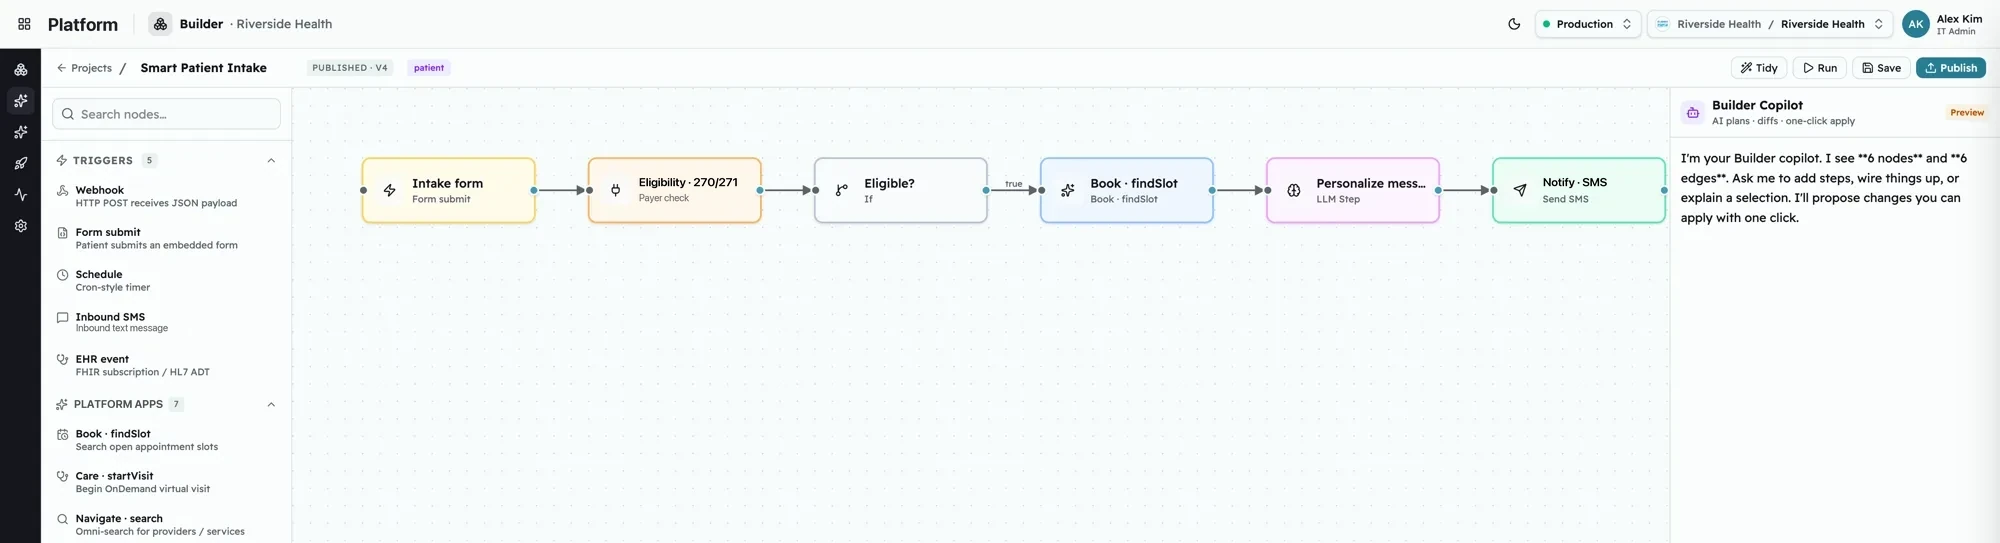
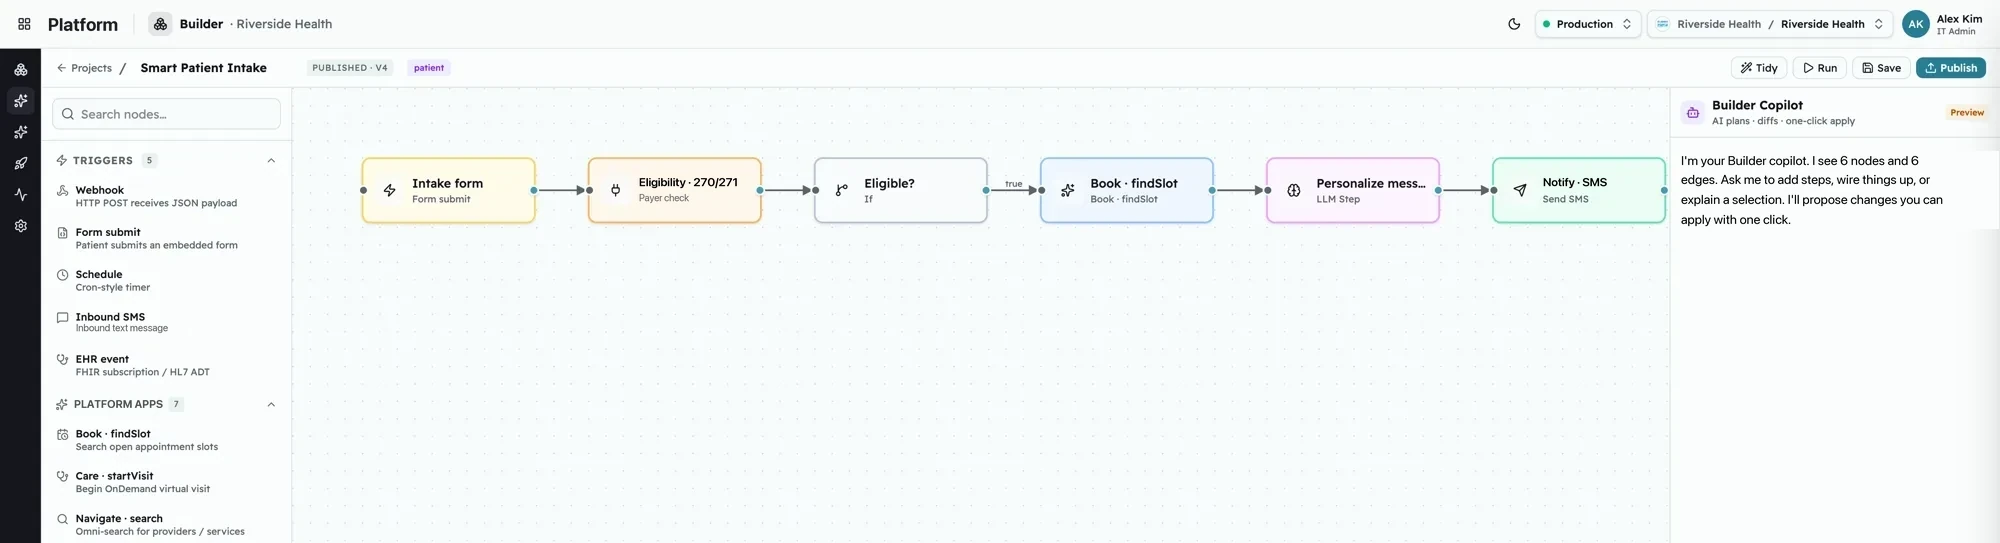
Critique fixes: executive tone, dials read today, screenshot cleanup
- Copy: drop commit leaderboards and defensive lines; trim endorsements
  to result clauses; plainer close
- Dials: needle shows today's reading, target drawn as a mark
- Text-wrap pretty, narrower long paragraphs, no double hairlines
- Crop internal heading from routing shot; clean copilot text
- Absolute og:image for LinkedIn previews

Changed region(s): [[0.837, 0.2652, 0.992, 0.4125]]

diff --git a/index.html b/index.html
@@ -7,12 +7,13 @@
 <meta name="description" content="Chris Carruthers: founder, and product and technology executive. I build companies, products and the teams behind them, most recently on the founding team of DexCare.">
 <meta property="og:title" content="Chris Carruthers">
 <meta property="og:description" content="Founder · Product & Technology Executive. I build companies, products and the teams behind them.">
-<meta property="og:image" content="assets/img/chris.jpg">
+<meta property="og:image" content="https://chris-carruthers.github.io/chris-carruthers-site/assets/img/chris.jpg">
+<meta property="og:url" content="https://chris-carruthers.github.io/chris-carruthers-site/">
 <meta name="theme-color" content="#2A3B26">
 <link rel="preconnect" href="https://fonts.googleapis.com">
 <link rel="preconnect" href="https://fonts.gstatic.com" crossorigin>
 <link href="https://fonts.googleapis.com/css2?family=Archivo:wdth,wght@62..125,300..800&family=Barlow+Semi+Condensed:wght@500;600&display=swap" rel="stylesheet">
-<link rel="stylesheet" href="styles.css?v=4">
+<link rel="stylesheet" href="styles.css?v=5">
 </head>
 <body>
 <a class="skip" href="#main">Skip to content</a>
@@ -48,7 +49,7 @@
         </div>
         <div>
           <dt>Technology</dt>
-          <dd><span class="fig">15</span> products set on one platform architecture, and I still ship code: top contributor to the AI product I lead.</dd>
+          <dd><span class="fig">15</span> products set on one platform architecture. Hands-on in the code of the AI product I lead.</dd>
         </div>
       </dl>
 
@@ -79,7 +80,7 @@
       <span class="exhibit" aria-hidden="true">A</span>
       <div>
         <h2 id="work-h">What we&rsquo;ve built</h2>
-        <p class="sub">Designed, built and shipped with the teams I lead, most of them in the last eight months.</p>
+        <p class="sub">Designed, built and shipped with the teams I lead.</p>
       </div>
     </header>
 
@@ -88,14 +89,14 @@
         <h3>DexCare.ai Optimize</h3>
         <p>The AI knowledge layer for patient access. It takes a health system's scheduling rules, scattered across Epic build, Visio diagrams and people's heads, and turns them into one governed source of truth that every channel shares: call center, web, text, voice and chat.</p>
         <ul class="facts">
-          <li><b>928 + 686</b> commits to the backend and frontend, the most of any contributor, and about <b>2,000</b> across 16 repositories in 2026</li>
+          <li>About <b>2,000</b> commits across 16 repositories in 2026, hands-on alongside the team</li>
           <li><b>339</b> scheduling rules rebuilt from one health system's decision trees, across six service lines</li>
-          <li>A self-maintaining staff wiki in production with two customers: <b>192 pages</b> generated for less than the cost of a lunch</li>
+          <li>A self-maintaining staff wiki in production with two customers: <b>192 pages</b> generated at negligible model cost</li>
           <li>The model proposes, a person approves, and a deterministic engine applies. AI never sits in the write path.</li>
         </ul>
       </div>
       <figure class="shot">
-        <img src="assets/shots/routing.webp" width="1600" height="793" loading="lazy" alt="Routing constraints screen in DexCare Optimize: thirty accepted reasons for a visit shown as chips, a 'Needs human review' flag, and a note that every change is a draft proposal awaiting approval.">
+        <img src="assets/shots/routing.webp" width="1600" height="700" loading="lazy" alt="Routing constraints screen in DexCare Optimize: thirty accepted reasons for a visit shown as chips, a 'Needs human review' flag, and a note that every change is a draft proposal awaiting approval.">
         <figcaption>Routing constraints. Every change becomes a draft proposal for review.</figcaption>
       </figure>
     </article>
@@ -106,7 +107,7 @@
         <div>
         <p>A canvas where platform capabilities become typed building blocks (book a slot, check eligibility, look up a provider, send a text) that compile into a publishable AI agent. A copilot plans the change and shows the diff before anything is applied.</p>
         <ul class="facts">
-          <li>Built solo: <b>30 of 30</b> commits, from the first one in August 2026.</li>
+          <li>Prototype, in development since August 2026.</li>
         </ul>
         </div>
       </div>
@@ -131,12 +132,12 @@
       <div class="work-list">
         <article>
           <h3>Care Concierge</h3>
-          <p>Patient-facing chat and hands-free voice, grounded in the health system's own content and booked against real availability. I also published it as a connector so patients can use it inside Claude, ChatGPT and Gemini: being where the patient's AI already is.</p>
+          <p>Patient-facing chat and hands-free voice, grounded in the health system's own content and booked against real availability. Also available as a connector inside Claude, ChatGPT and Gemini, so it meets patients in the AI they already use.</p>
           <p class="meter">Measured at <b>cents</b> per conversation turn.</p>
         </article>
         <article>
           <h3>Navigate</h3>
-          <p>Provider search that tenant admins brand and publish on their own. The AI-native successor to the original search product. <b>51 of 51</b> commits; live since August 2026.</p>
+          <p>Provider search that tenant admins brand and publish on their own. The AI-native successor to the original search product, live since August 2026.</p>
         </article>
         <article>
           <h3>Connector Registry &amp; App Shell</h3>
@@ -165,8 +166,8 @@
     <header class="chapter-head">
       <span class="exhibit" aria-hidden="true">B</span>
       <div>
-        <h2 id="platform-h">Built to last: the platform vision</h2>
-        <p class="sub">Fifteen products grew up as separate codebases, each with its own login, tenant setup and integrations. Every new customer meant months of work and hundreds of tickets. My answer:</p>
+        <h2 id="platform-h">The platform vision</h2>
+        <p class="sub">Fifteen products grew up as separate codebases, each with its own login, tenant setup and integrations. Every new customer meant months of work and hundreds of tickets. The plan:</p>
       </div>
     </header>
 
@@ -204,7 +205,7 @@
     </div>
 
     <div class="cluster" role="group" aria-labelledby="cluster-h">
-      <h3 id="cluster-h">The measure is one thing: a customer goes live with zero tickets to engineering.</h3>
+      <h3 id="cluster-h">The target: a customer goes live with zero tickets to engineering.</h3>
       <div class="dials">
         <figure class="dial" data-max="26" data-step="2" data-label-every="4" data-from="24" data-to="4">
           <svg viewBox="0 0 240 240" aria-hidden="true"></svg>
@@ -214,17 +215,17 @@
           <svg viewBox="0 0 240 240" aria-hidden="true"></svg>
           <figcaption><b>Tickets per go-live</b><span>~180 today → <strong>under 10</strong> target</span><em>tickets</em></figcaption>
         </figure>
-        <figure class="dial" data-max="30" data-step="1" data-label-every="5" data-from="25" data-to="0.02">
+        <figure class="dial" data-max="30" data-step="1" data-label-every="5" data-from="25" data-to="0.02" data-target-label="30 MIN">
           <svg viewBox="0 0 240 240" aria-hidden="true"></svg>
           <figcaption><b>New-tenant setup</b><span>~25 days today → <strong>under 30 minutes</strong> target</span><em>days</em></figcaption>
         </figure>
       </div>
-      <p class="log"><time datetime="2026-11">Nov 2026</time> Services built and moving through integration. Production target: December 2026. I'm the product owner; I wrote the PRD and the specs for each service, and kept a written log of 63 decisions.</p>
+      <p class="log"><time datetime="2026-11">Nov 2026</time> Services built and moving through integration. Production target: December 2026. Product owner of the program: the PRD, the service specs and 63 decisions on record.</p>
     </div>
 
     <div class="calls">
       <h3>A hard call, written down</h3>
-      <p>Midway through, we had a faster-looking option: a small team rebuilding the platform from scratch alongside the product teams. I killed it. In my decision record: <q>A delivery model that asks nothing of the product teams also teaches them nothing.</q> We extract instead, and every team learns the platform by moving onto it.</p>
+      <p>Midway through, we had a faster-looking option: a small team rebuilding the platform from scratch alongside the product teams. We passed on it. From the decision record: <q>A delivery model that asks nothing of the product teams also teaches them nothing.</q> We extract instead, and every team learns the platform by moving onto it.</p>
     </div>
     <p class="src">Sources: Platform PRD and decision log, 2026. Dial figures are program targets, not yet results.</p>
   </div>
@@ -237,7 +238,7 @@
       <span class="exhibit" aria-hidden="true">C</span>
       <div>
         <h2 id="innov-h">Seeing it early, then shipping it</h2>
-        <p class="sub">A record of ideas, each dated when I wrote it down and then built.</p>
+        <p class="sub">Ideas, dated when they were written down, and what became of them.</p>
       </div>
     </header>
 
@@ -247,7 +248,7 @@
       <tbody>
         <tr><td>2018</td><td>Join the innovation group inside a large health system</td><td>Became part of the founding team that spun DexCare out in 2021.</td></tr>
         <tr><td>2022</td><td>A text and phone navigator that routes patients by the health system's own rules</td><td>Shipped years later as the Care Concierge voice product.</td></tr>
-        <tr><td>2022</td><td>A rapid scoping and prototyping team, so ideas get a go/no-go in weeks</td><td>Founded and chartered it: <q>breakthrough patient access technology at a pace impossible to rival.</q></td></tr>
+        <tr><td>2022</td><td>A rapid scoping and prototyping team, so ideas get a go/no-go in weeks</td><td>Founded and chartered it.</td></tr>
         <tr><td>2023</td><td>Auto-charted clinical notes from the visit's audio</td><td>Filed internally in April 2023, before ambient scribes became a category.</td></tr>
         <tr><td>2024</td><td>Run AI as an internal startup</td><td>Project Interstellar ran in stealth for a year, shipping weekly, and became DexCare.ai.</td></tr>
         <tr><td>2026</td><td>Put the health system's concierge inside the patient's own AI</td><td>Published as a connector for Claude, ChatGPT and Gemini.</td></tr>
@@ -279,7 +280,7 @@
       </ul>
 
       <div class="principles">
-        <h3>How I work, in my own words</h3>
+        <h3>Operating principles</h3>
         <blockquote><p>Milestones are customers live, not code shipped.</p></blockquote>
         <blockquote><p>Product owns the what, the why and the expected outcome. Engineering owns the how.</p></blockquote>
         <blockquote><p>If engineering cannot explain what needs to be built, the story is not ready.</p></blockquote>
@@ -290,11 +291,11 @@
 
     <div class="endorse">
       <figure>
-        <blockquote><p>Inventive, adaptable and tech-savvy, and one of the most likeable people you'll meet.</p></blockquote>
+        <blockquote><p>Inventive, adaptable and tech-savvy.</p></blockquote>
         <figcaption>A colleague of five years, on LinkedIn</figcaption>
       </figure>
       <figure>
-        <blockquote><p>Delivers on time and under budget. Anybody would be lucky to have him as part of their team.</p></blockquote>
+        <blockquote><p>Delivers on time and under budget.</p></blockquote>
         <figcaption>A lead engineer who worked with Chris, on LinkedIn</figcaption>
       </figure>
     </div>
@@ -309,7 +310,7 @@
       <span class="exhibit" aria-hidden="true">E</span>
       <div>
         <h2 id="record-h">The record</h2>
-        <p class="sub">Two decades, the titles as held.</p>
+        <p class="sub">Twenty years, newest first.</p>
       </div>
     </header>
 
@@ -331,7 +332,7 @@
 <section class="close paint" id="contact" aria-labelledby="close-h">
   <div class="wrap">
     <h2 id="close-h">Building something hard in healthcare or AI?</h2>
-    <p>I'm glad to talk with founders, boards and builders.</p>
+    <p>For founders, boards and builders in healthcare and AI, LinkedIn is the best way to reach me.</p>
     <div class="actions">
       <a class="btn btn-primary" href="https://www.linkedin.com/in/chris-carruthers/" rel="me noopener" target="_blank">Connect on LinkedIn</a>
       <a class="btn btn-quiet" href="https://github.com/Chris-Carruthers" rel="me noopener" target="_blank">See the code on GitHub</a>
@@ -347,6 +348,6 @@
   </div>
 </footer>
 
-<script src="site.js?v=4" defer></script>
+<script src="site.js?v=5" defer></script>
 </body>
 </html>

diff --git a/styles.css b/styles.css
@@ -64,6 +64,7 @@ q { quotes: "“" "”"; }
 .paint .src { border-color: rgba(238, 232, 217, 0.22); color: var(--on-paint-dim); }
 .leather .src { border-color: rgba(243, 230, 210, 0.22); color: var(--on-leather-dim); }
 .hero .src { margin-top: var(--space-3); border: 0; padding-top: 0; }
+.record + .src, .timeline + .src { border-top: 0; }
 .visually-hidden { position: absolute; width: 1px; height: 1px; overflow: hidden; clip: rect(0 0 0 0); white-space: nowrap; }
 .skip { position: absolute; left: var(--gutter); top: -100px; z-index: 50; background: var(--butter); color: var(--leather); padding: 0.6rem 1rem; font-weight: 650; }
 .skip:focus { top: 12px; }
@@ -114,6 +115,7 @@ q { quotes: "“" "”"; }
 .hero { padding-block: clamp(2rem, 3vw, 3rem) var(--space-6); }
 .hero-grid { display: grid; grid-template-columns: minmax(0, 7fr) minmax(0, 4fr); gap: clamp(2rem, 6vw, 6rem); align-items: start; }
 h1, h2, h3 { font-family: var(--display); text-wrap: balance; margin: 0; }
+p, li, dd, td, figcaption { text-wrap: pretty; }
 .hero h1 {
   font-size: clamp(2.6rem, 5vw, 4.6rem);
   font-stretch: 112%; font-weight: 620; line-height: 0.98; letter-spacing: -0.025em;
@@ -198,7 +200,7 @@ h3 { font-size: 1.5rem; font-stretch: 104%; font-weight: 620; letter-spacing: -0
 .work-wide .work-text { display: grid; grid-template-columns: minmax(0, 5fr) minmax(0, 7fr); gap: clamp(1.5rem, 4vw, 4rem); align-items: start; }
 .work-wide .work-text p { margin-top: 0; }
 .shot-dark img { background: #0b0c1a; }
-.work-oss .work-text p { max-width: 75ch; }
+.work-oss .work-text p { max-width: 66ch; }
 .links { display: flex; flex-wrap: wrap; gap: 1.5rem; }
 .links a { font-weight: 620; color: var(--cognac); }
 .links a:hover { color: var(--ink); }
@@ -268,12 +270,12 @@ h3 { font-size: 1.5rem; font-stretch: 104%; font-weight: 620; letter-spacing: -0
 .dial .tick { stroke: var(--gauge-num); }
 .dial .num { paint-order: stroke; stroke: #151715; stroke-width: 5px; fill: var(--gauge-num); font-family: var(--gaugeface); font-weight: 500; font-size: 15px; }
 .dial .unit { fill: #9d978b; font-family: var(--gaugeface); font-size: 11px; letter-spacing: 0.14em; text-transform: uppercase; }
-.dial .today { stroke: var(--butter); stroke-width: 3; }
-.dial .today-label { fill: var(--butter); font-family: var(--gaugeface); font-size: 10px; letter-spacing: 0.12em; }
+.dial .target { stroke: var(--butter); stroke-width: 4; }
+.dial .target-label { fill: var(--butter); font-family: var(--gaugeface); font-size: 12px; letter-spacing: 0.12em; }
 .dial .needle { transform-origin: 120px 120px; transition: transform 1.8s var(--ease); }
 .log {
   margin: var(--space-3) 0 0; padding-top: var(--space-2); border-top: 1px solid rgba(233, 230, 223, 0.15);
-  font-family: var(--gaugeface); font-size: 1rem; letter-spacing: 0.02em; color: #c9c3b7; max-width: 90ch;
+  font-family: var(--gaugeface); font-size: 1rem; letter-spacing: 0.02em; color: #c9c3b7; max-width: 70ch;
 }
 .log time { color: var(--gauge-num); letter-spacing: 0.12em; text-transform: uppercase; margin-right: 0.75rem; }
 
@@ -294,7 +296,7 @@ h3 { font-size: 1.5rem; font-stretch: 104%; font-weight: 620; letter-spacing: -0
 .team-list { list-style: none; margin: 0; padding: 0; }
 .team-list li { padding: 1.1rem 0; border-top: 1px solid rgba(243, 230, 210, 0.22); max-width: 62ch; }
 .team-list b { color: var(--butter); }
-.principles h3 { font-size: 1.1rem; font-family: var(--gaugeface); font-weight: 600; letter-spacing: 0.14em; text-transform: uppercase; color: var(--on-leather-dim); }
+.principles h3 { font-size: 1.1rem; font-family: var(--gaugeface); font-weight: 600; letter-spacing: 0.14em; text-transform: uppercase; color: var(--on-leather-dim); margin-bottom: 0.75rem; }
 .principles blockquote { margin: 0; padding: 1rem 0; border-top: 1px solid rgba(243, 230, 210, 0.22); }
 .principles blockquote p { margin: 0; font-size: 1.15rem; line-height: 1.45; font-stretch: 104%; }
 .endorse { display: grid; grid-template-columns: 1fr 1fr; gap: clamp(1.5rem, 4vw, 4rem); margin-top: var(--space-5); padding-top: var(--space-4); border-top: 1px solid var(--butter); }

diff --git a/site.js b/site.js
@@ -39,21 +39,21 @@
         el("text", { x: tx, y: ty + 5, class: "num", "text-anchor": "middle" }, svg).textContent = v;
       }
     }
-    // where it is today: a butterscotch mark outside the scale
-    const ta = angle(from, max);
-    const [a1, b1] = pt(ta, 106), [a2, b2] = pt(ta, 116);
-    el("line", { x1: a1, y1: b1, x2: a2, y2: b2, class: "today" }, svg);
+    // the needle reads today; the target is a butterscotch mark outside the scale
+    const ta = angle(to, max);
+    const [a1, b1] = pt(ta, 104), [a2, b2] = pt(ta, 118);
+    el("line", { x1: a1, y1: b1, x2: a2, y2: b2, class: "target" }, svg);
     el("text", { x: C, y: 170, class: "unit", "text-anchor": "middle" }, svg).textContent = unit;
-    el("text", { x: C, y: 188, class: "today-label", "text-anchor": "middle" }, svg).textContent = "TODAY " + fig.dataset.from;
+    el("text", { x: C, y: 188, class: "target-label", "text-anchor": "middle" }, svg).textContent = "TARGET " + (fig.dataset.targetLabel || to);
 
     el("circle", { cx: C, cy: C, r: 11, fill: "#c6c9c6" }, svg);
     el("circle", { cx: C, cy: C, r: 4, fill: "#8d918e" }, svg);
 
     const set = (v) => (g.style.transform = `rotate(${angle(v, max)}deg)`);
-    if (reduce) { set(to); return null; }
+    if (reduce) { set(from); return null; }
     g.style.transition = "none";
-    set(from);
-    return () => { g.getBoundingClientRect(); g.style.transition = ""; set(to); };
+    set(0);
+    return () => { g.getBoundingClientRect(); g.style.transition = ""; set(from); };
   }
 
   const dials = [...document.querySelectorAll(".dial")].map((f) => [f, drawDial(f)]);

diff --git a/.impeccable/critique/2026-11-19T19-12-07Z__index-html.md b/.impeccable/critique/2026-11-19T19-12-07Z__index-html.md
@@ -1,0 +1,53 @@
+---
+target: index.html
+total_score: 19
+max_score: 28
+na_heuristics: 7,9,10
+p0_count: 1
+p1_count: 2
+target_identity: "file:/Users/chriscarruthers/Desktop/Claude/chrissite/index.html"
+target_fingerprint: "sha256:ef8006331ec0ec96912b1888e38ee3179927adad12e3181908b77211aafb5ca4"
+target_path: /Users/chriscarruthers/Desktop/Claude/chrissite/index.html
+timestamp: 2026-11-19T19-12-07Z
+slug: index-html
+---
+Method: dual-agent (A: design review · B: detector + browser)
+
+## Design Health Score
+| # | Heuristic | Score | Key Issue |
+|---|---|---|---|
+| 1 | Visibility of System Status | 3 | Sticky nav has no active chapter state on an ~11.6k px (desktop) / ~15.8k px (phone) page |
+| 2 | Match System / Real World | 3 | Unglossed insider terms: tenant, write path, PRD, appetite, FHIR |
+| 3 | User Control and Freedom | 3 | No contact link in nav, close reachable only by scrolling |
+| 4 | Consistency and Standards | 2 | Dial needles rest on the TARGET, not the reading; product tiles look clickable; "Earlier" breaks dated record |
+| 5 | Error Prevention | 3 | "Targets, not results" caveat buried in source line below dials |
+| 6 | Recognition Rather Than Recall | 3 | Screenshots unreadable at phone width |
+| 7 | Flexibility and Efficiency | n/a | Single-path persuade page |
+| 8 | Aesthetic and Minimalist Design | 2 | Proof density: ~13 claims before Exhibit B, 15-tile grid, dials 1,337px on phone |
+| 9 | Error Recovery | n/a | No forms |
+| 10 | Help and Documentation | n/a | Source lines serve as provenance |
+| **Total** | | **19/28** | **Acceptable (68%)** |
+
+## Design Specificity Verdict
+Mostly authored: racing-green hero ledger, exhibit letters, source lines, instrument dials, dated timeline. Goes generic in the schematic (button grid), the Record (resume table) and the close (question + two buttons, empty right half). Leather basketweave reads as carpet noise at 1x. Detector: CLI exit 0, 2 advisory design-system-color hits (white/navy screenshot mats). Browser overlay: stragglers (4 desktop / 7 phone), line-length ~99-101 cpl on two ~730px paragraphs, cream-palette (user-pinned; overlay ignores config). No console JS errors (favicon 404), all 7 images have alt and load, no horizontal overflow at 390px, global focus-visible ring present.
+
+## Priority Issues
+- [P0] Dials present targets as readings (needle rests on 4 wks / 10 tickets / 0 days); caveat buried; figures uncleared. Fix: needle rests on today, target drawn as a mark; label cluster "targets". (clarify, polish)
+- [P1] Tone: commit leaderboards and defensive lines contradict "What we've built" and executive presence (index.html:51,91,93,109,139,169,222,227,240,250,282,293,297,312,334). (clarify)
+- [P1] End of page is weak: generic endorsements, résumé table, template close, no "open to" statement. (clarify, layout)
+- [P2] Mobile density: ~19 screens, unreadable screenshots, 8-row tile grid, stacked dials, 93px sticky header. (adapt)
+- [P2] Screenshot hygiene: routing.webp shows internal heading "A — the live case"; builder.webp shows raw markdown "**6 nodes**". (polish)
+
+## Persona Red Flags
+- Jordan: jargon (tenant, PRD); product tiles look clickable but aren't.
+- Casey: ~19 screens; screenshot text ~6px; header wraps to 93px.
+- Riley: dial needles imply achieved results; "Earlier" hides dates; zooms into raw markdown in screenshots.
+- Recruiter/board (90s): scope lands in hero, then commit counts read as IC; platform thesis buried at ~4,500px.
+
+## Minor Observations
+Double hairline after Record and timeline (.record border + .src border-top); .principles h3 touches first rule; needle crosses "4" numeral; TODAY label 10px; og:image relative URL (LinkedIn previews need absolute); no favicon; stragglers (no text-wrap: pretty); two body paragraphs ~100 cpl.
+
+## Questions to Consider
+- Should Exhibit B (platform thesis) come before Work so the executive case lands within 90 seconds?
+- Is the commit count the claim a board remembers, or the one that types him as a brilliant IC?
+- What would the close say if it named the role he wants?
